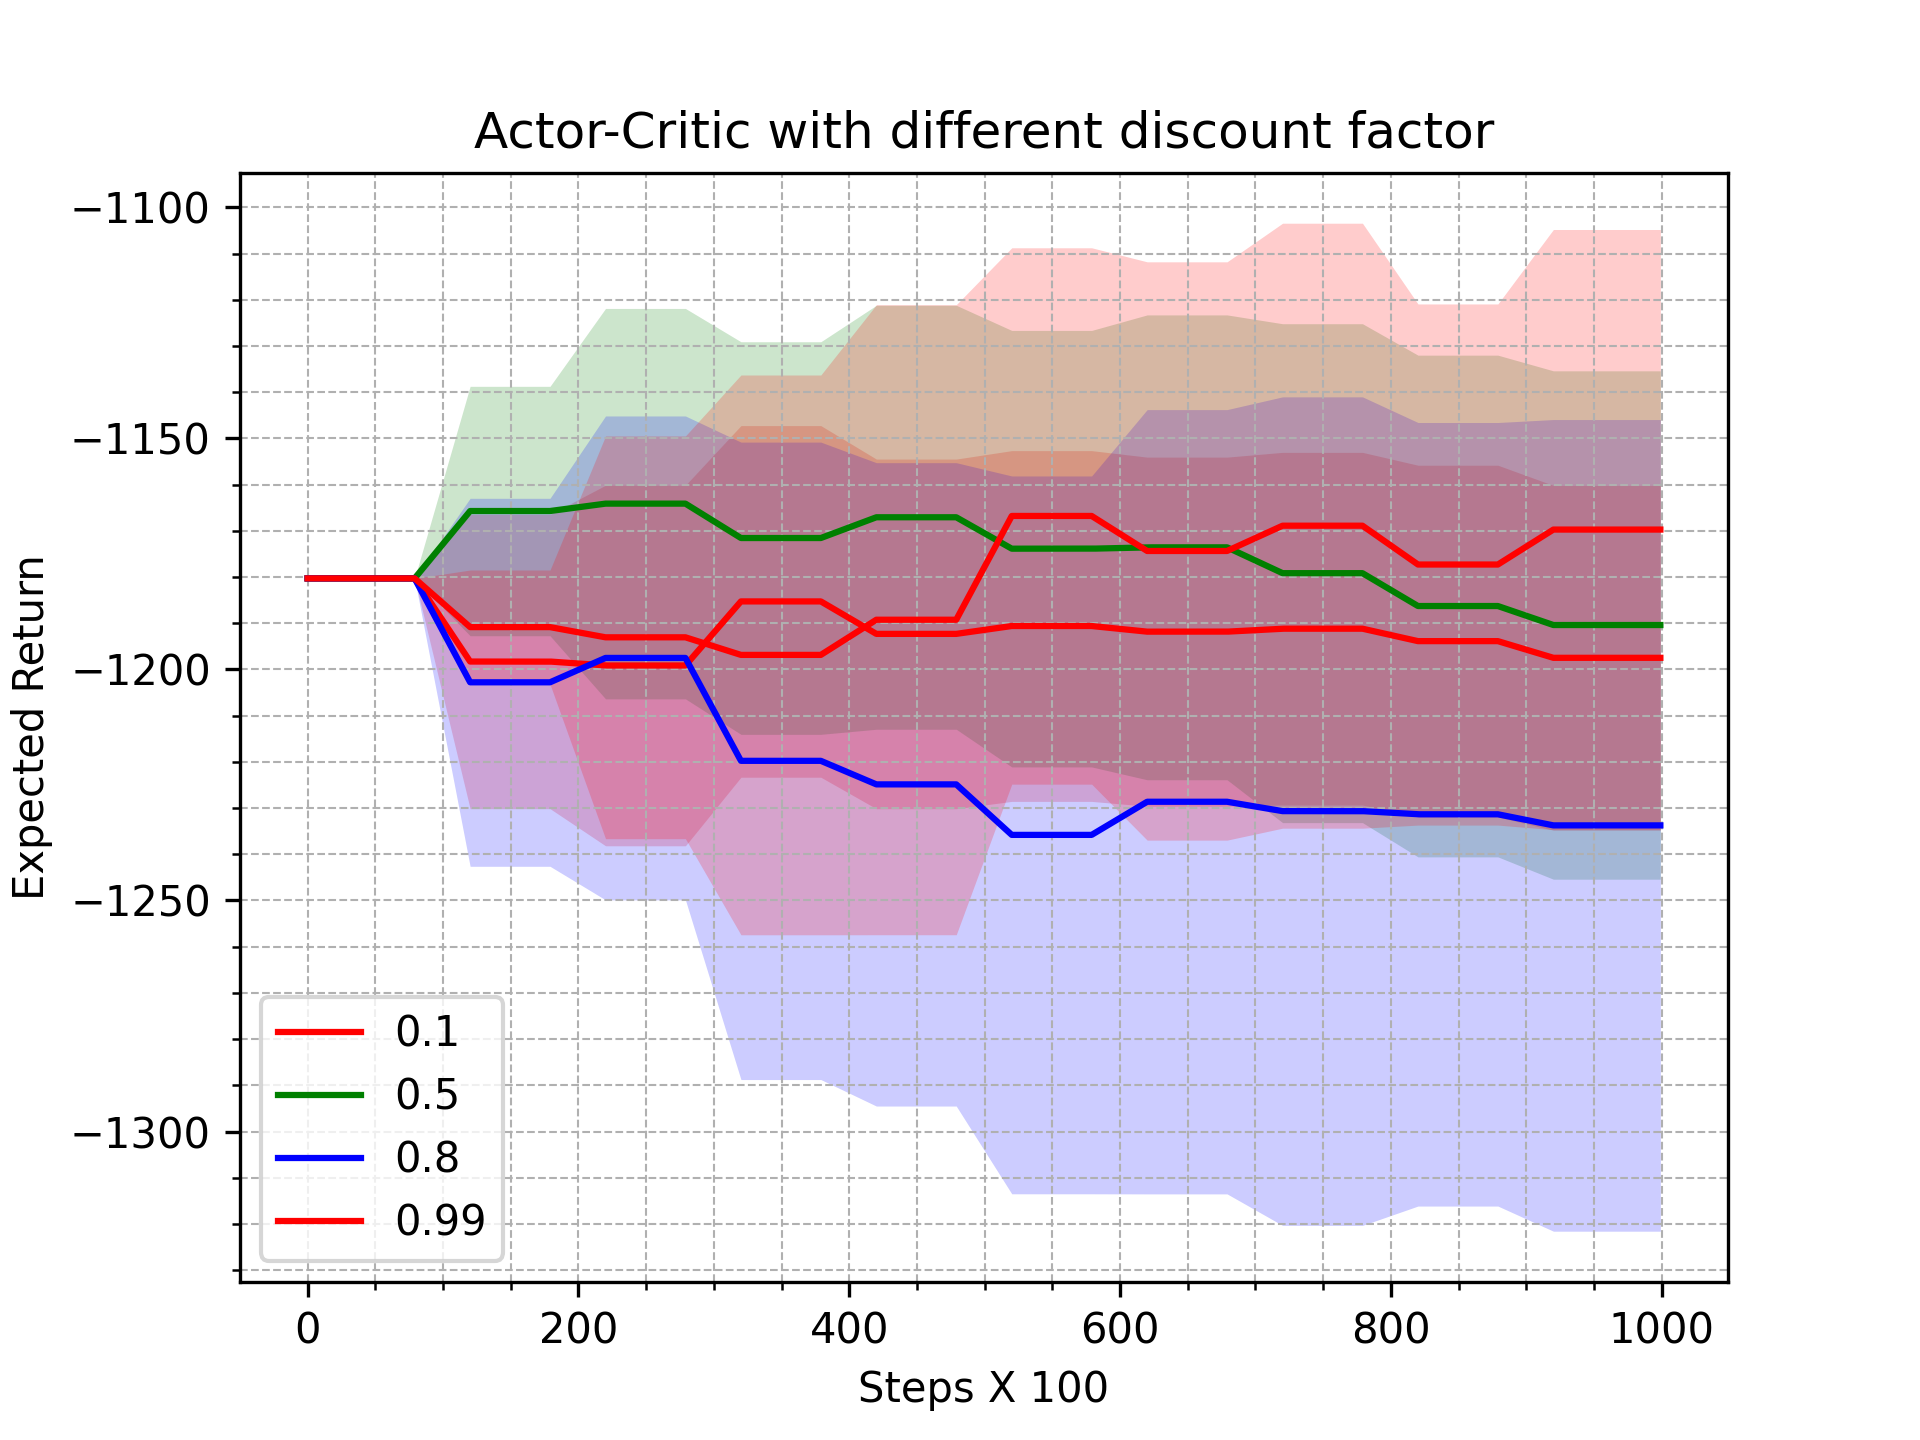
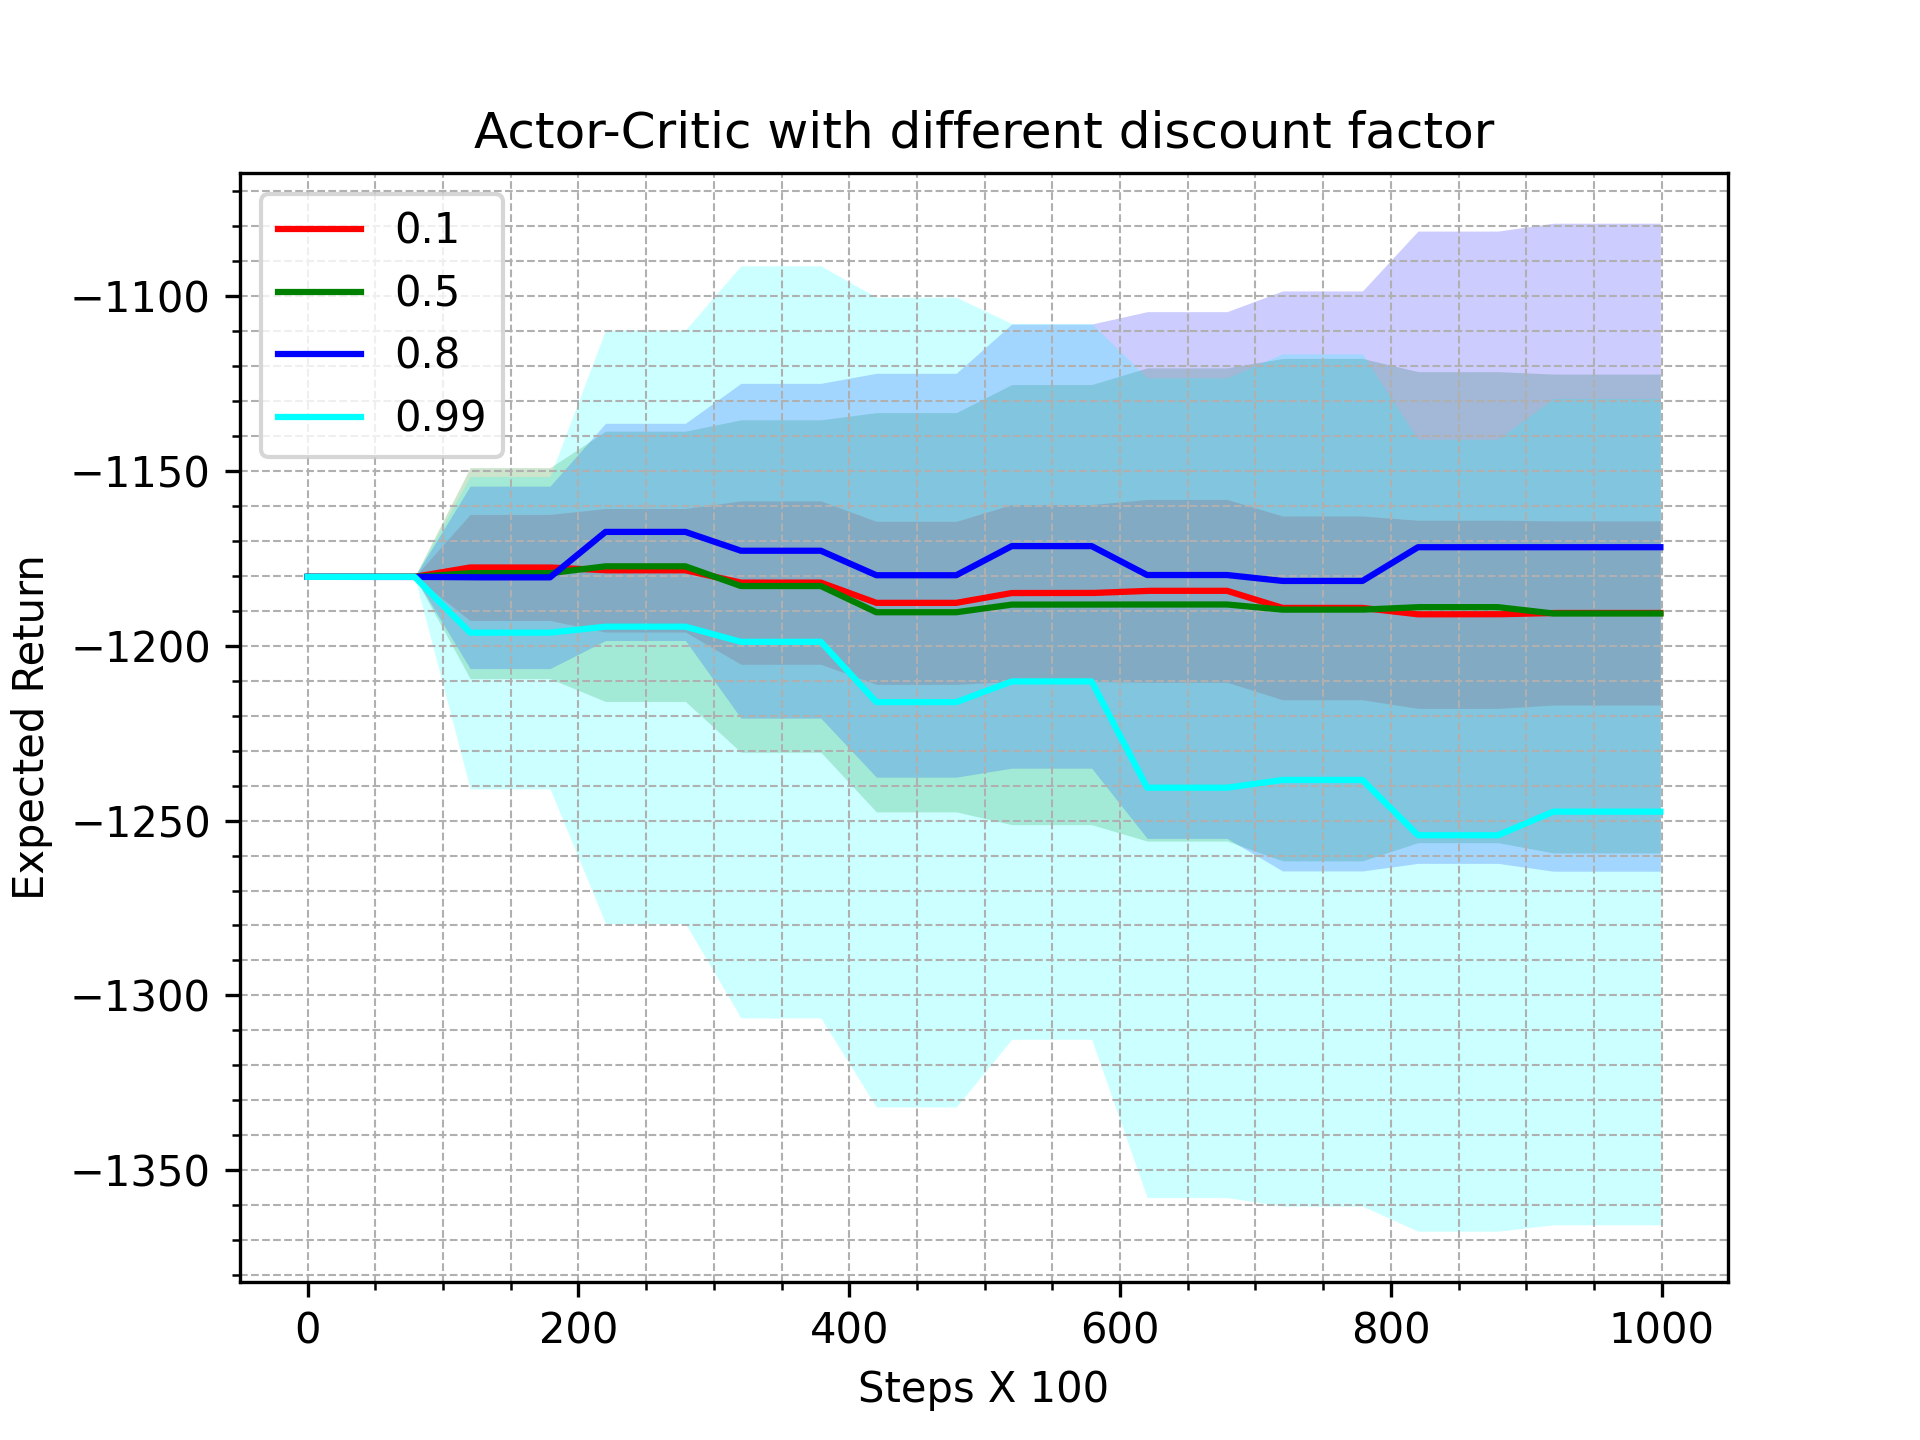
actor critic code for pendulum ready for testing

diff --git a/experiments/actor_critic_pendulum.py b/experiments/actor_critic_pendulum.py
@@ -63,9 +63,9 @@ def actor_critic(gamma, seed):
             v_next = np.dot(phi_next, critic_weights)
             
             td_error = r + gamma * v_next * (1 - terminated) - v
-            critic_weights += alpha_critic * td_error.item() * phi.flatten()
+            critic_weights += alpha_critic * td_error * phi.flatten()
             dlog_pi = dlog_gaussian_probs(phi, actor_weights, sigma, a)
-            actor_weights += alpha_actor * td_error.item() * dlog_pi.reshape(-1, 1)
+            actor_weights += alpha_actor * td_error * dlog_pi.reshape(-1, 1)
 
             s = s_next
             T += 1
@@ -73,7 +73,7 @@ def actor_critic(gamma, seed):
 
             exp_return_history[tot_steps-1] = exp_return
 
-            if tot_steps % episodes_eval == 0:
+            if tot_steps % eval_steps == 0:           # confirm whether we need this or not
                 exp_return = expected_return(env_eval, actor_weights, gamma, episodes_eval)
             
             sigma = max(sigma - 1 / max_steps, 0.1)
@@ -112,6 +112,7 @@ env_id = "Pendulum-v1"
 env = gymnasium.make(env_id)
 env_eval = gymnasium.make(env_id)
 episodes_eval = 100
+eval_steps = 100
 
 state_dim = env.observation_space.shape[0]
 action_dim = env.action_space.shape[0]
@@ -135,8 +136,6 @@ get_phi = lambda state : rbf_features(state.reshape(-1, state_dim), centers, sig
 phi_dummy = get_phi(env.reset()[0])  # to get the number of features
 
 # hyperparameters
-# q_init = [-1, 0, 1]
-# gamma = 0.99
 gamma_values = [0.1, 0.5, 0.8, 0.99]
 alpha_actor = 0.01
 alpha_critic = 0.1
@@ -146,7 +145,7 @@ n_seeds = 10
 results_exp_ret = np.zeros((
     len(gamma_values),
     n_seeds,
-    max_steps,
+    max_steps // eval_steps,
 ))
 
 fig, axs = plt.subplots(1, 1)
